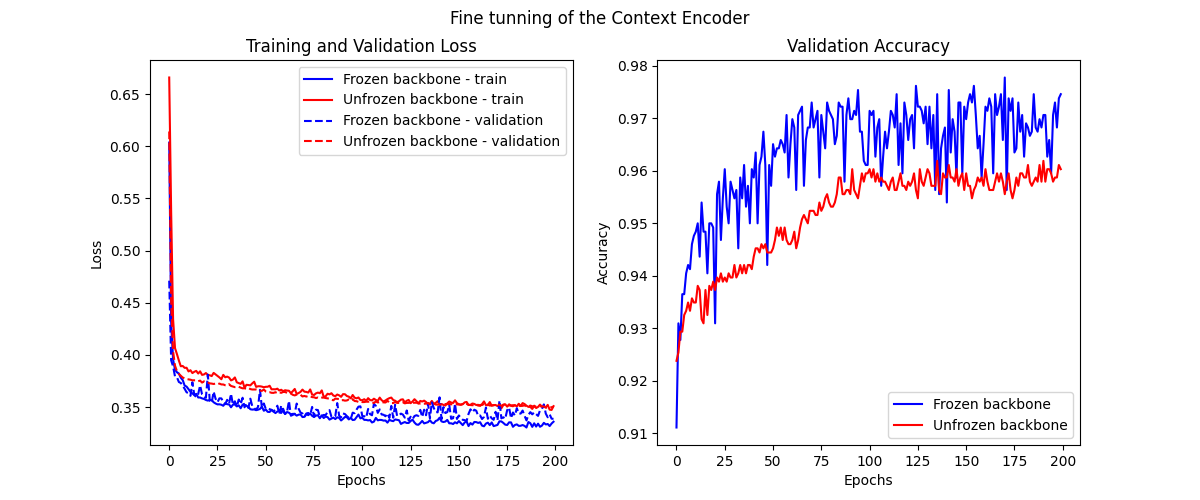
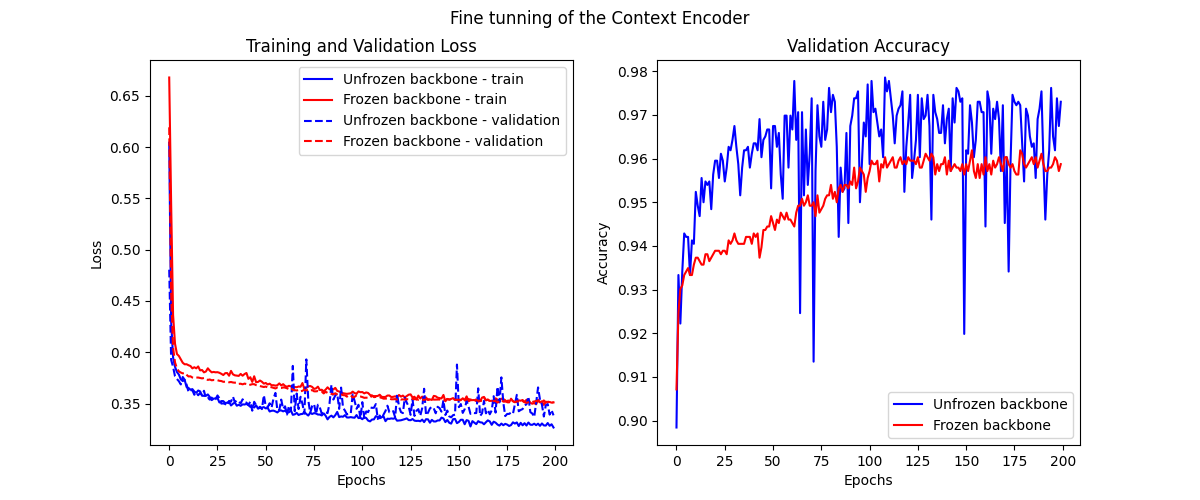
update figures context encoders

diff --git a/context_encoder/train_classifier.py b/context_encoder/train_classifier.py
@@ -130,7 +130,7 @@ def main():
 
 
         plot_filename = output_dir / f"{args.model}_{freeze_backbone}_training_plot.png"
-        plot_curves(train_losses, val_losses, val_accuracies, save_path=str(plot_filename), title_suffix=f"({args.model})")
+        # plot_curves(train_losses, val_losses, val_accuracies, save_path=str(plot_filename), title_suffix=f"({args.model})")
         plt.close()
 
         test_loss, test_correct = validate(model, test_loader, criterion, device=device)
@@ -140,17 +140,17 @@ def main():
 
     fig = plt.figure(figsize=(12,5))
     ax = fig.add_subplot(1,2,1)
-    ax.plot(train_losses_model[0], color='blue', linestyle='-', label='Frozen backbone - train')
-    ax.plot(train_losses_model[1], color='red', linestyle='-', label='Unfrozen backbone - train')
-    ax.plot(val_losses_model[0], color='blue', linestyle='--', label='Frozen backbone - validation')
-    ax.plot(val_losses_model[1], color='red', linestyle='--', label='Unfrozen backbone - validation')
+    ax.plot(train_losses_model[0], color='blue', linestyle='-', label='Unfrozen backbone - train')
+    ax.plot(train_losses_model[1], color='red', linestyle='-', label='Frozen backbone - train')
+    ax.plot(val_losses_model[0], color='blue', linestyle='--', label='Unfrozen backbone - validation')
+    ax.plot(val_losses_model[1], color='red', linestyle='--', label='Frozen backbone - validation')
     ax.set_xlabel('Epochs')
     ax.set_ylabel('Loss')
     ax.set_title('Training and Validation Loss')
     ax.legend()
     ax = fig.add_subplot(1,2,2)
-    ax.plot(val_accuracies_model[0], color='blue', linestyle='-', label='Frozen backbone')
-    ax.plot(val_accuracies_model[1], color='red', linestyle='-', label='Unfrozen backbone')
+    ax.plot(val_accuracies_model[0], color='blue', linestyle='-', label='Unfrozen backbone')
+    ax.plot(val_accuracies_model[1], color='red', linestyle='-', label='Frozen backbone')
     ax.set_xlabel('Epochs')
     ax.set_ylabel('Accuracy')
     ax.set_title('Validation Accuracy')
